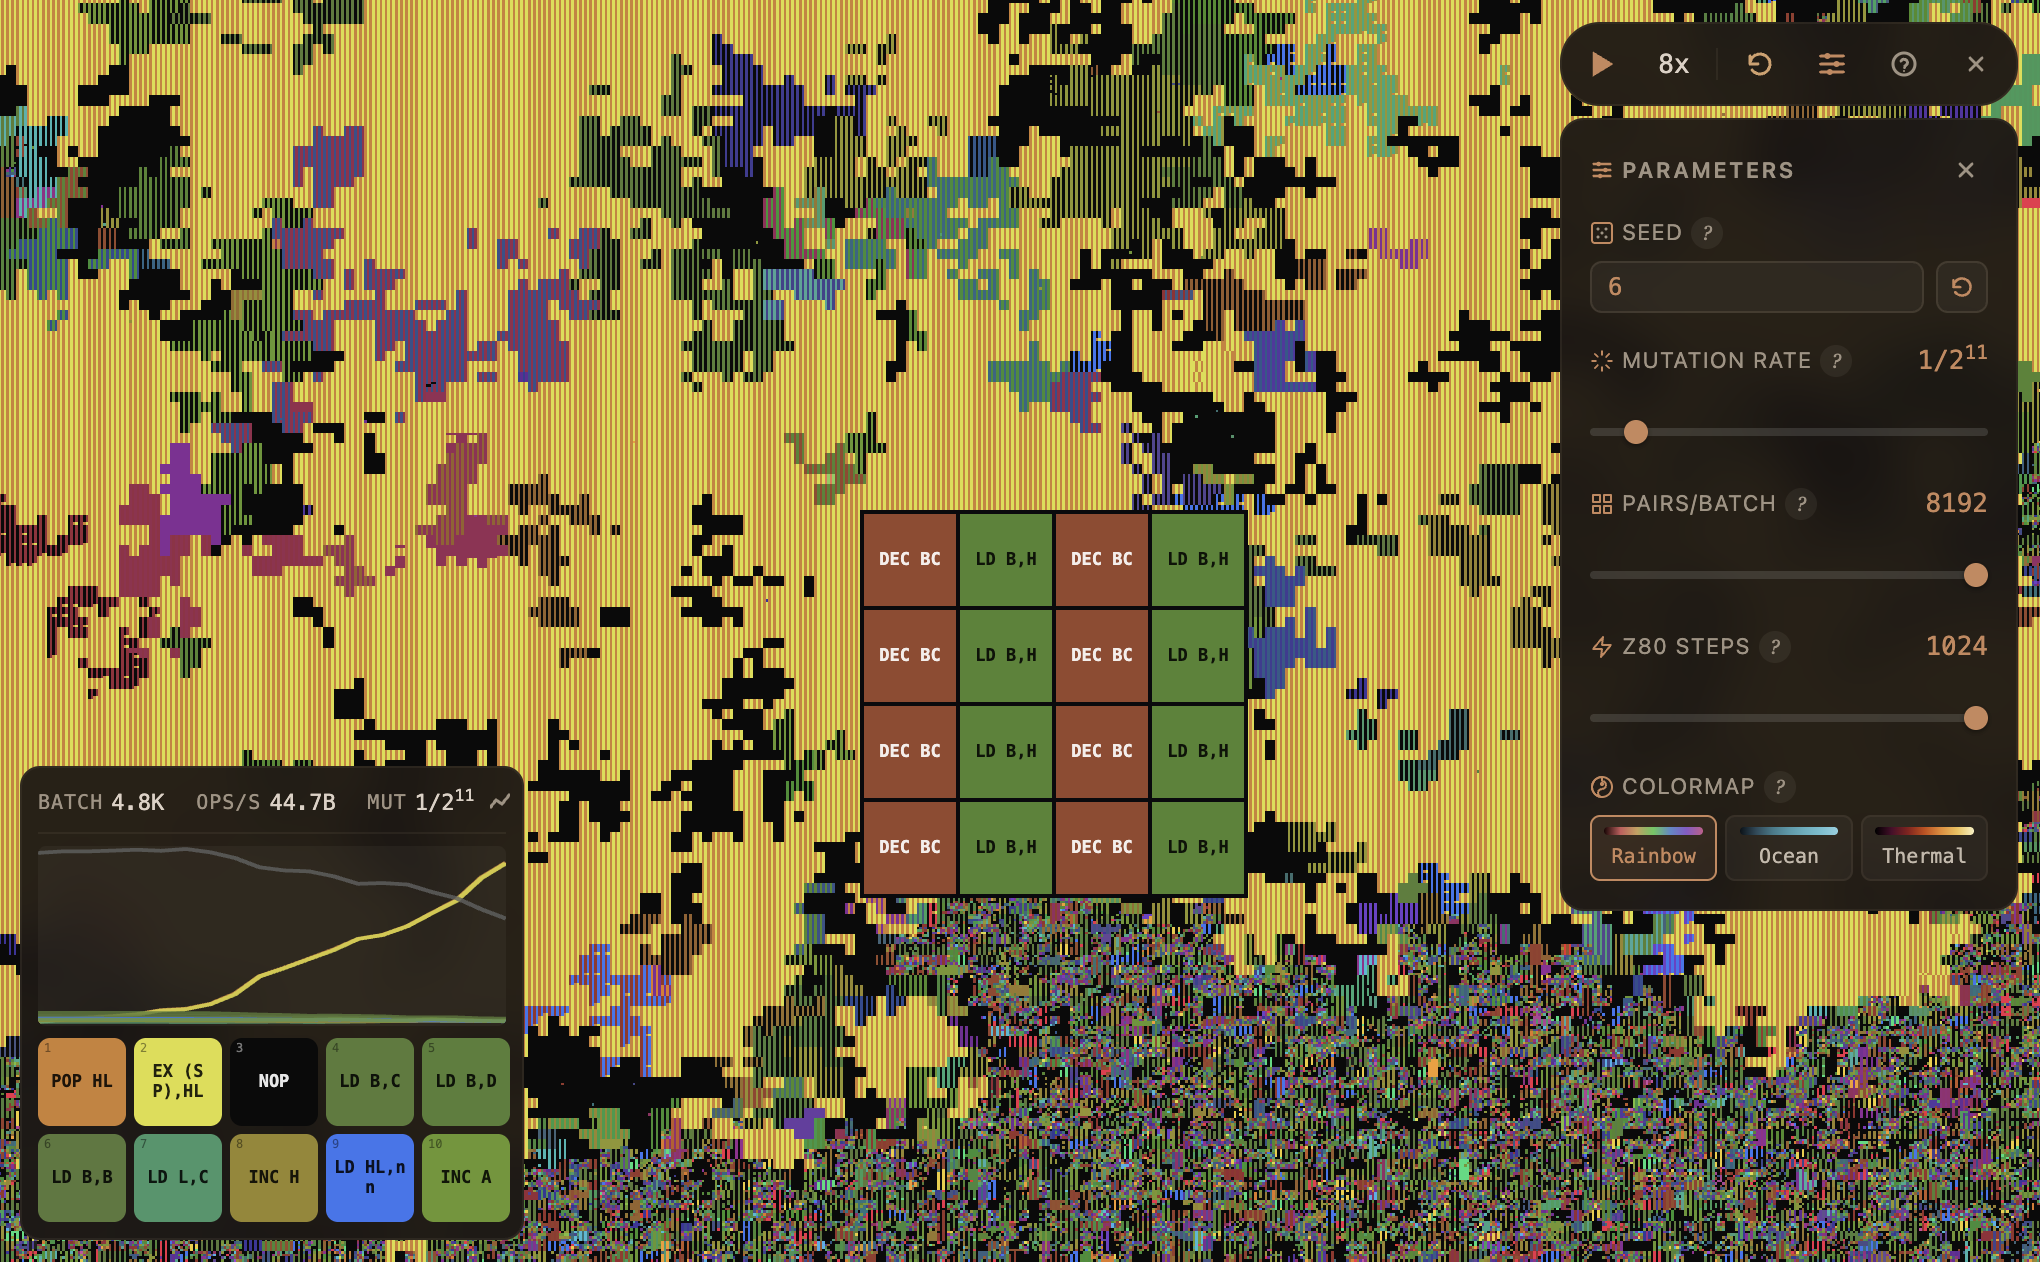
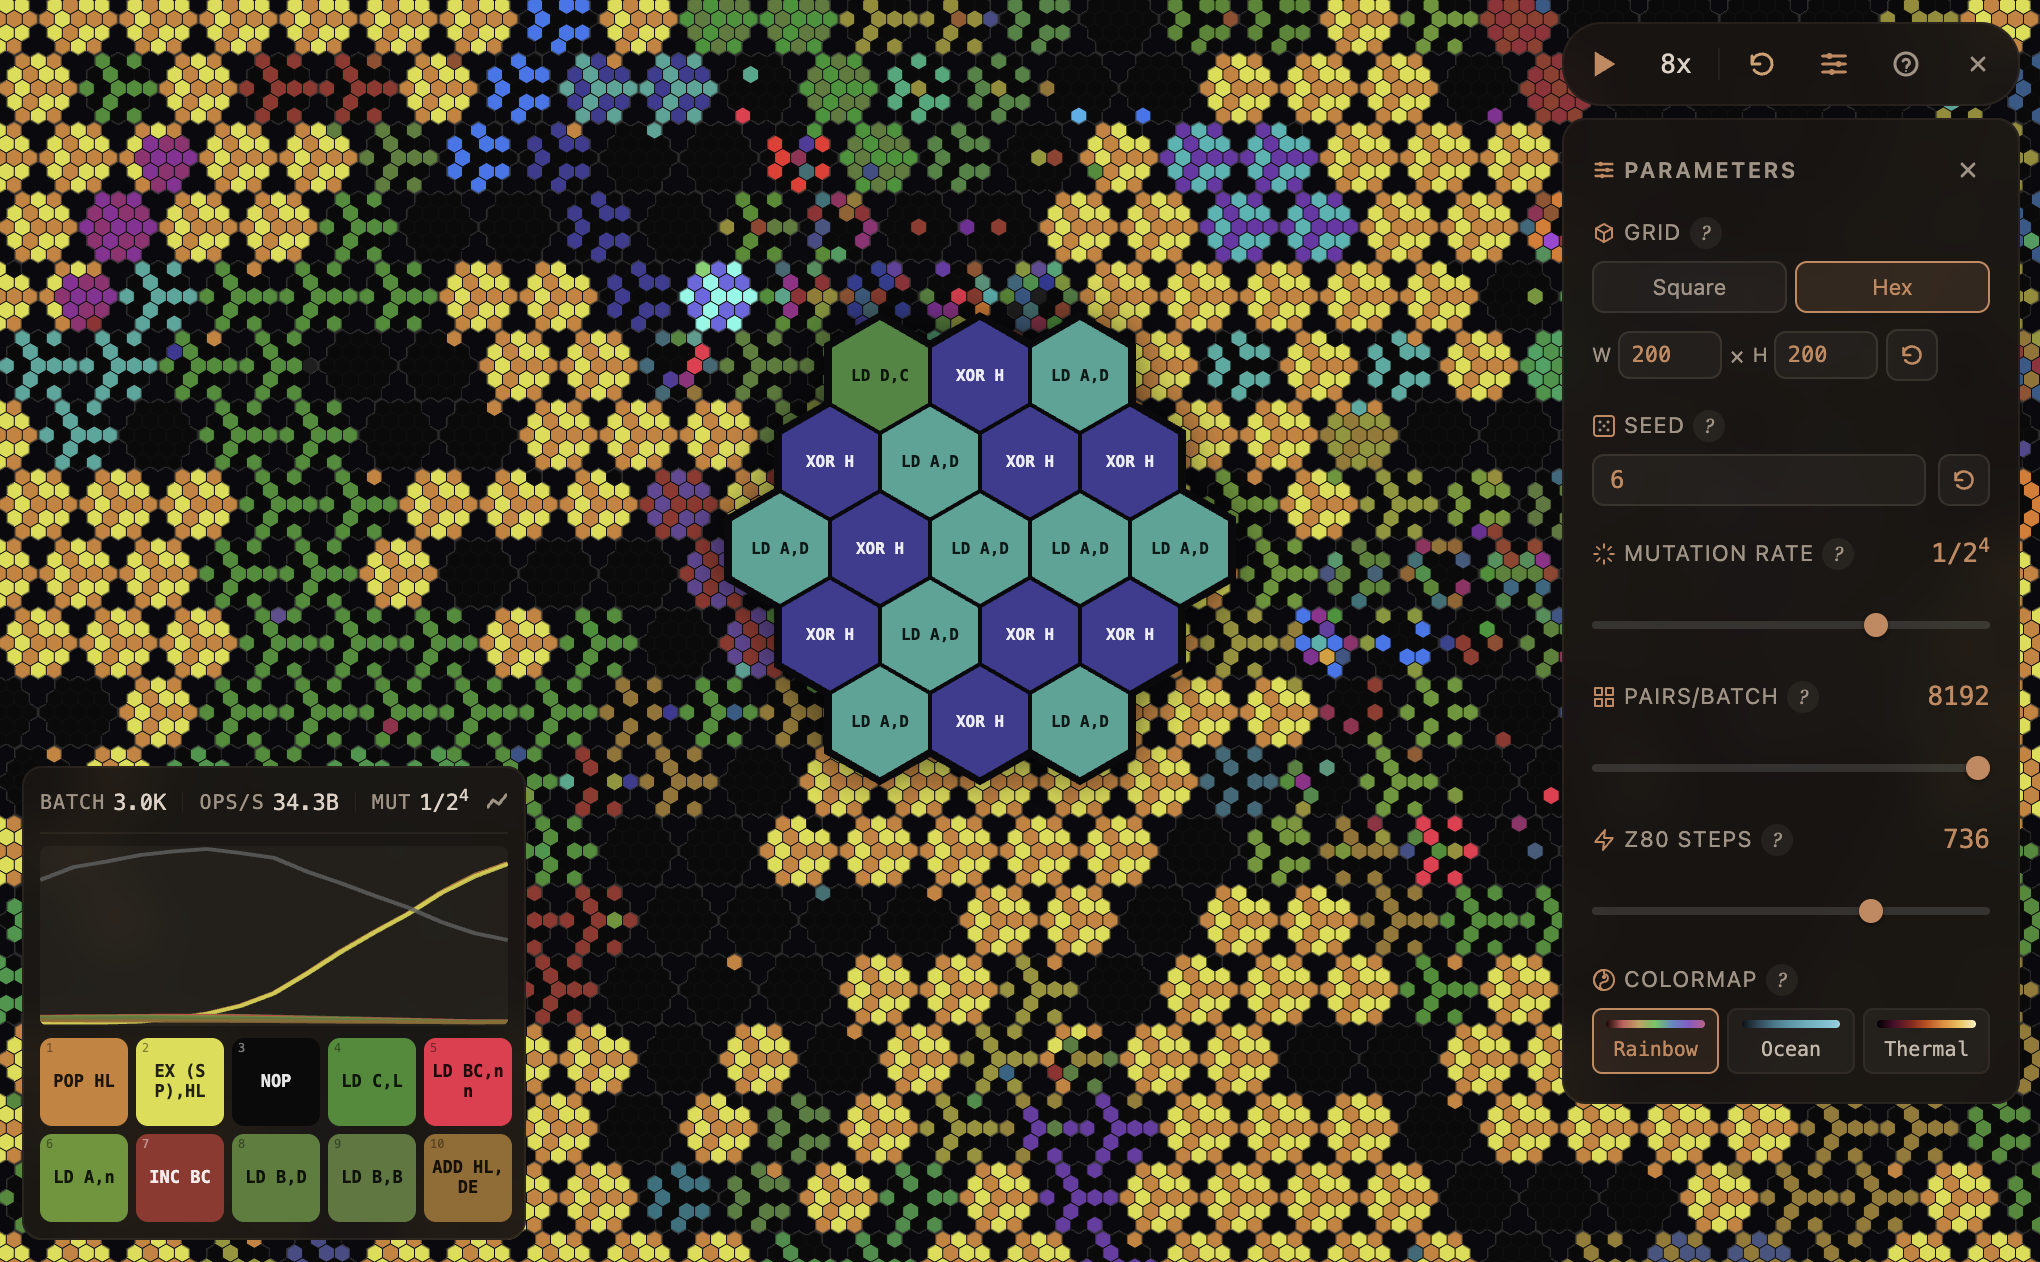
feat: enhance README and help modal with grid topology details and configurable parameters

diff --git a/src/routes/+page.svelte b/src/routes/+page.svelte
@@ -991,10 +991,10 @@
 			<div class="modal-body">
 				{#if helpTab === 'overview'}
 					<p>
-						A 200&times;200 grid of cells, each containing 16 random bytes interpreted as Z80
-						machine code. Every step, random adjacent pairs are selected, their 32 bytes
-						concatenated and executed as a Z80 program (128 steps), and the modified
-						memory is written back. Self-replicating programs spontaneously emerge.
+						A configurable grid of cells (default 200&times;200), each containing random
+						bytes interpreted as Z80 machine code. Every step, random adjacent pairs are
+						selected, their bytes concatenated and executed as a Z80 program, and the
+						modified memory is written back. Self-replicating programs spontaneously emerge.
 					</p>
 					<p class="cmap-note">
 						Based on <a href="https://arxiv.org/abs/2406.19108" target="_blank" rel="noopener" class="help-link">Hartley &amp; Colton (2024)</a>.
@@ -1002,11 +1002,22 @@
 						<a href="https://github.com/znah/zff" target="_blank" rel="noopener" class="help-link">original code</a>.
 					</p>
 
+					<h4>Grid Topologies</h4>
+					<p>
+						<strong>Square</strong> &mdash; Each cell is a 4&times;4 block of 16 bytes.
+						Cells interact with 4 cardinal neighbors.
+					</p>
+					<p>
+						<strong>Hexagonal</strong> &mdash; Each cell holds 19 bytes in a 3-4-5-4-3
+						hexagonal arrangement. Cells interact with 6 neighbors, producing more
+						organic emergent structures. Uses odd-r offset coordinates (odd rows shift right).
+					</p>
+
 					<!-- Simulation cycle diagram -->
 					<Mermaid chart={`
 graph TD
-    GRID("200×200 Grid\n40,000 cells · 16 bytes each") -->|"pick random pair"| PAIR("Cell A + Cell B\n32 bytes combined")
-    PAIR -->|"execute as Z80"| CPU("Z80 CPU · 128 steps")
+    GRID("Cell Grid\nconfigurable size · square or hex") -->|"pick random pair"| PAIR("Cell A + Cell B\nbytes combined")
+    PAIR -->|"execute as Z80"| CPU("Z80 CPU · configurable steps")
     CPU -->|"write back + mutate"| GRID
 `} />
 
@@ -1132,7 +1143,7 @@ graph TD
 					<p class="cmap-note">All other bytes get a muted tone from a continuous hue sweep. Switch colormaps in Settings.</p>
 
 					<h4>Cell Tooltips</h4>
-					<p>Hover any cell to see its bytes disassembled as Z80 instructions (16 bytes in 4x4 grid for square, 19 bytes in hexagonal layout for hex).</p>
+					<p>Hover any cell to see its bytes disassembled as Z80 instructions. Square mode shows a 4&times;4 grid of 16 bytes; hex mode shows a 3-4-5-4-3 hexagonal cluster of 19 bytes matching the cell's honeycomb shape.</p>
 					<ul class="help-list">
 						<li><strong>Opcode bytes</strong> show the instruction mnemonic (e.g. <code>NOP</code>, <code>POP HL</code>, <code>LD B,C</code>)</li>
 						<li><strong>Operand bytes</strong> show the raw hex value (e.g. <code>00</code>, <code>3F</code>) and appear dimmed &mdash; these are data consumed by the preceding instruction</li>
@@ -1246,6 +1257,20 @@ graph TD
     B -->|"repeat"| A
 `} />
 				{:else if helpTab === 'params'}
+					<h4>Grid Type</h4>
+					<p>
+						Switch between <strong>Square</strong> and <strong>Hex</strong> topologies.
+						Square cells hold 16 bytes (4&times;4) with 4 neighbors. Hex cells hold 19
+						bytes (3-4-5-4-3 honeycomb) with 6 neighbors. Changing resets the simulation.
+					</p>
+
+					<h4>Grid Size (W &times; H)</h4>
+					<p>
+						Width and height of the grid in cells. Default is 200&times;200. Larger grids
+						give more space for diverse species to evolve, but use more GPU memory and
+						compute. Changing resets the simulation.
+					</p>
+
 					<h4>Seed</h4>
 					<p>
 						The random seed used to initialize the grid. Same seed produces the same
@@ -1254,7 +1279,7 @@ graph TD
 
 					<h4>Mutation Rate</h4>
 					<p>
-						Controls the probability of random byte flips after each execution step.
+						Controls the probability of random byte flips after each execution step (1/2<sup>n</sup>).
 						Higher slider values mean more mutations. Too low and replicators can't
 						emerge; too high and they can't survive. Sweet spot is usually 3&ndash;5.
 					</p>
@@ -1262,13 +1287,21 @@ graph TD
 					<h4>Pairs / Batch</h4>
 					<p>
 						How many cell pairs are selected and executed each simulation step. Higher
-						values speed up evolution but use more GPU time. At 5000, roughly 10,000 of
-						the 40,000 cells are updated per step.
+						values speed up evolution but use more GPU time. At max, roughly a quarter
+						of all cells are updated per step.
+					</p>
+
+					<h4>Z80 Steps</h4>
+					<p>
+						Maximum CPU cycles per pair execution (16&ndash;1024). Lower values make the
+						simulation faster but limit program complexity &mdash; simple replicators
+						emerge quickly. Higher values allow more complex programs to develop but
+						slow down the simulation. Default (128) balances speed and complexity.
 					</p>
 
 					<h4>Colormap</h4>
 					<p>
-						Choose between four visual themes: Default (warm opcode-aware), Ocean (cool
+						Choose between three visual themes: Rainbow (warm opcode-aware), Ocean (cool
 						blues), and Thermal (heat map).
 					</p>
 				{:else if helpTab === 'keys'}
@@ -1285,8 +1318,10 @@ graph TD
 				{:else if helpTab === 'about'}
 					<p>
 						<strong>Algocell</strong> is a WebGPU-accelerated artificial life simulator
-						that runs Z80 machine code on a 200&times;200 grid of cells. Self-replicating
-						programs spontaneously emerge from random noise.
+						that runs Z80 machine code on a configurable grid of cells. Choose between
+						square and hexagonal topologies, adjust grid size, Z80 execution depth,
+						mutation rate, and more. Self-replicating programs spontaneously emerge from
+						random noise.
 					</p>
 					<p>
 						Based on the paper by
@@ -1294,7 +1329,9 @@ graph TD
 						and the
 						<a href="https://github.com/znah/zff" target="_blank" rel="noopener" class="help-link">original implementation</a>
 						by Alexander Mordvintsev. This browser version uses WebGPU compute shaders
-						instead of Python/JAX, so it runs anywhere with no setup required.
+						instead of Python/JAX, so it runs anywhere with no setup required. The
+						hexagonal grid mode produces more organic emergent structures thanks to
+						6-neighbor interactions.
 					</p>
 					<p>
 						Developed by <strong>Neo Mohsenvand</strong> with the help of

diff --git a/README.md b/README.md
@@ -22,16 +22,24 @@
 
 ![Algocell screenshot](image.png)
 
-Watch self-replicating Z80 programs spontaneously emerge from a grid of random bytes. A 200x200 grid of cells, each containing 16 random bytes, is continuously executed as Z80 machine code. Within seconds, self-replicating programs appear and compete for space — digital life from pure noise.
+Watch self-replicating Z80 programs spontaneously emerge from a grid of random bytes. Each cell in the grid contains a handful of random bytes that are continuously executed as Z80 machine code. Within seconds, self-replicating programs appear and compete for space — digital life from pure noise.
 
 Based on [Hartley & Colton (2024)](https://arxiv.org/abs/2406.19108) and the [original Python/JAX implementation](https://github.com/znah/zff) by Alexander Mordvintsev. This version re-implements the simulation using WebGPU compute shaders, so it runs directly in the browser with no installation or GPU drivers required. At max settings on a MacBook Air M3, it reaches over 50 billion Z80 operations per second.
 
 ## How it works
 
-1. **Grid**: 200x200 cells, each holding 16 bytes (640KB total)
-2. **Each step**: Random adjacent cell pairs are selected. Their 32 bytes are concatenated and executed as a Z80 program for up to 1024 steps. The modified memory is written back.
-3. **Mutation**: Random bytes are flipped at a configurable rate (default 1/2^4)
+1. **Grid**: A configurable grid of cells (default 200×200). Choose between **square** (4×4 = 16 bytes per cell) or **hexagonal** (19 bytes per cell in a 3-4-5-4-3 hex arrangement) topologies.
+2. **Each step**: Random adjacent cell pairs are selected. Their bytes are concatenated and executed as a Z80 program for a configurable number of steps. The modified memory is written back.
+3. **Mutation**: Random bytes are flipped at a configurable rate (default 1/2⁴).
 4. **Emergent behavior**: The Z80 CPU starts with all registers zeroed, so random code tends to write zeros — NOP (0x00) accumulates rapidly. Then self-replicating programs (typically `POP HL` + `EX (SP),HL` loops) emerge and outcompete the NOPs.
+
+## Grid Topologies
+
+### Square Grid
+The classic mode. Each cell is a 4×4 block of bytes (16 bytes). Cells interact with their 4 cardinal neighbors (up, down, left, right).
+
+### Hexagonal Grid
+Each cell holds 19 bytes arranged in a 3-4-5-4-3 hexagonal pattern. Cells interact with 6 neighbors, creating more organic-looking emergent structures. The hex topology uses odd-r offset coordinates — odd rows are shifted right, producing a natural honeycomb layout with rectangular grid boundaries.
 
 ## Controls
 
@@ -43,15 +51,21 @@ Based on [Hartley & Colton (2024)](https://arxiv.org/abs/2406.19108) and the [or
 | **1-8** | Set speed multiplier |
 | **Scroll** | Zoom in/out |
 | **Click + Drag** | Pan |
-| **Hover** | Inspect cell (Z80 disassembly) |
+| **Hover** | Inspect cell (Z80 disassembly tooltip) |
 
 ## Parameters
 
-- **Seed** — Random seed for initial grid state
-- **Mutation Rate** — Probability of random byte flips (1/2^n, from 1/2 to 1/2^12)
-- **Pairs/Batch** — Cell pairs evaluated per GPU dispatch (controls throughput vs. GPU load)
-- **Z80 Steps** — CPU cycles per pair execution (16–1024, controls program complexity vs. speed)
-- **Colormap** — Visual theme (Rainbow, Ocean, Thermal)
+- **Grid Type** — Switch between **Square** and **Hex** topologies. Changing resets the simulation.
+- **Grid Size** (W × H) — Width and height of the grid in cells (default 200×200). Changing resets the simulation.
+- **Seed** — Random seed for initial grid state. Same seed produces the same starting state.
+- **Mutation Rate** — Probability of random byte flips (1/2ⁿ, from 1/2 to 1/2¹²). Too low and replicators can't emerge; too high and they can't survive. The sweet spot is usually 3–5.
+- **Pairs/Batch** — Cell pairs evaluated per GPU dispatch (controls throughput vs. GPU load). At max, roughly a quarter of all cells are updated per step.
+- **Z80 Steps** — Maximum CPU cycles per pair execution (16–1024). Lower values make the simulation faster but limit program complexity — simple replicators emerge quickly. Higher values allow more complex programs to develop but slow down the simulation. The default (128) balances speed and complexity well.
+- **Colormap** — Visual theme (Rainbow, Ocean, Thermal). Each maps Z80 opcode categories to distinct colors.
+
+## Cell Tooltips
+
+Hover over any cell to see its bytes disassembled as Z80 instructions. In square mode, this shows a 4×4 grid; in hex mode, a hexagonal cluster of 19 bytes matching the cell's shape. Opcode bytes show the instruction mnemonic, while operand bytes (consumed by multi-byte instructions) appear slightly dimmed with their raw hex value.
 
 ## Development
 
